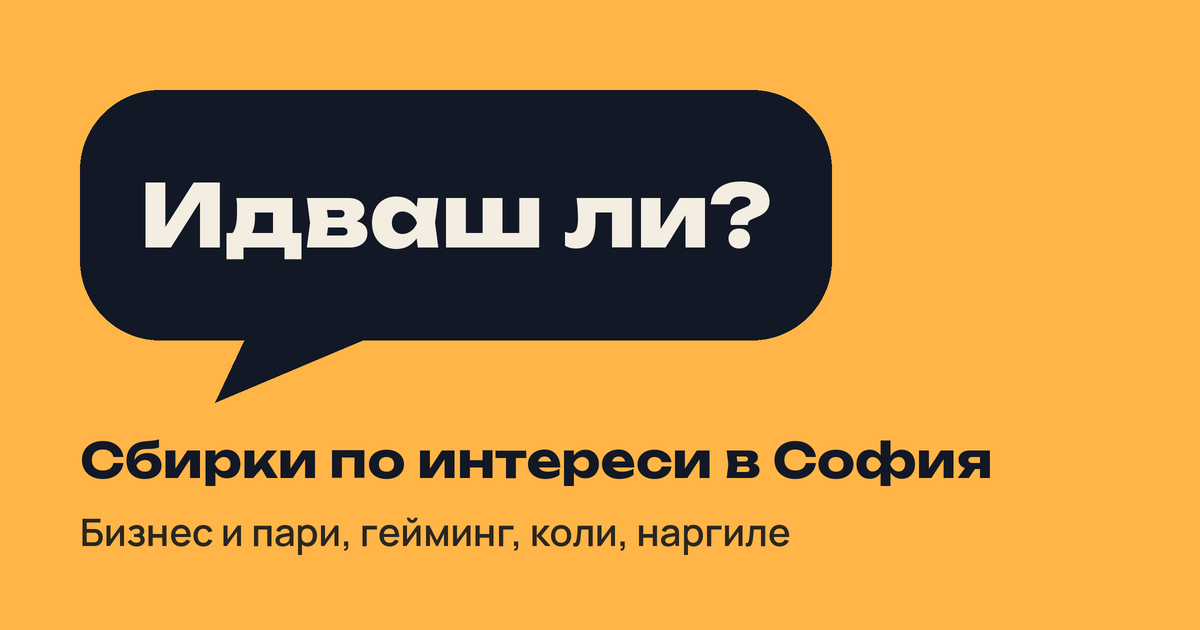
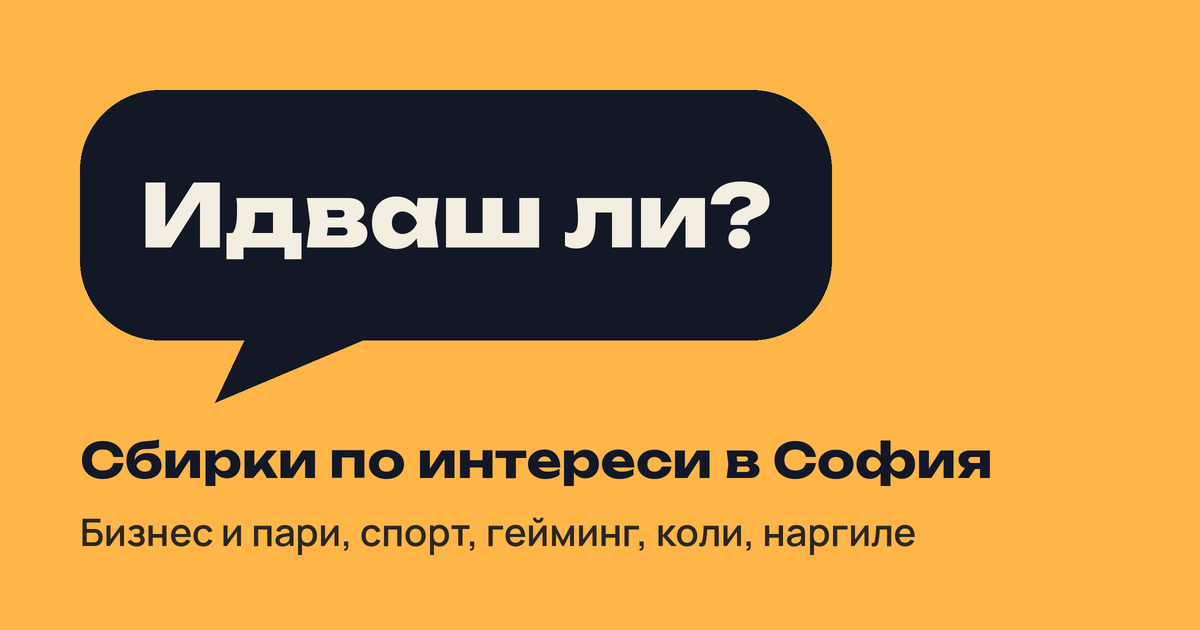
Добавен интерес Спорт с избор на спорт
Claude-Session: https://claude.ai/code/session_01MxxzxaXi9C1XrFEWNoP9iB

Changed region(s): [[0.3083, 0.8143, 0.7708, 0.8746]]

diff --git a/index.html b/index.html
@@ -4,13 +4,13 @@
 <meta charset="utf-8">
 <meta name="viewport" content="width=device-width, initial-scale=1">
 <title>Идваш ли? | Сбирки по интереси в София</title>
-<meta name="description" content="Запиши се и ще ти пишем, когато има сбирка по твоя интерес близо до теб в София. Бизнес и пари, гейминг, коли, наргиле.">
+<meta name="description" content="Запиши се и ще ти пишем, когато има сбирка по твоя интерес близо до теб в София. Бизнес и пари, спорт, гейминг, коли, наргиле.">
 <meta name="theme-color" content="#FFB547">
 <link rel="icon" type="image/png" sizes="32x32" href="/favicon-32.png">
 <link rel="apple-touch-icon" href="/apple-touch-icon.png">
 <meta property="og:type" content="website">
 <meta property="og:title" content="Идваш ли? | Сбирки по интереси в София">
-<meta property="og:description" content="Бизнес и пари, гейминг, коли, наргиле. Запиши се и ще ти пишем, когато има сбирка наблизо.">
+<meta property="og:description" content="Бизнес и пари, спорт, гейминг, коли, наргиле. Запиши се и ще ти пишем, когато има сбирка наблизо.">
 <meta property="og:image" content="https://idvashli.netlify.app/og-image.png">
 <meta property="og:locale" content="bg_BG">
 <meta name="twitter:card" content="summary_large_image">
@@ -248,7 +248,7 @@
 </header>
   <div class="wrap hero">
     <div class="hero-text">
-      <h1>Компания в София за бизнес, гейминг, коли и наргиле</h1>
+      <h1>Компания в София за бизнес, спорт, гейминг, коли и наргиле</h1>
       <p class="lead">Записваш се, избираш какво те вълнува, от трейдинг и маркетинг до PS5 турнири, и ти пишем, когато има сбирка наблизо.</p>
       <a class="btn" href="#zapis">Запиши се</a>
     </div>
@@ -277,6 +277,7 @@
         <h2 id="interesi">С какво започваме</h2>
         <div class="interests">
           <div class="interest"><h3>Бизнес и пари</h3><p>За студенти, които искат да изкарват пари: трейдинг, маркетинг, онлайн бизнес, първи клиенти. Срещаш хора, които вече го правят.</p></div>
+          <div class="interest"><h3>Спорт</h3><p>Футбол, баскетбол, волейбол или фитнес с хора, които търсят отбор или партньор за тренировка.</p></div>
           <div class="interest"><h3>Наргиле и чил</h3><p>Спокойни вечери в наргиле барове, без да се чудиш с кого да излезеш.</p></div>
           <div class="interest"><h3>Коли</h3><p>Срещи с хора, които живеят с колите си. Разговори, проекти, кафе след това.</p></div>
           <div class="interest"><h3>Гейминг</h3><p>Вечери в гейминг клубове с хора, които играят същото като теб.</p></div>
@@ -316,6 +317,7 @@
           <legend>Какво те интересува? <span class="hint">(избери едно или повече)</span></legend>
           <div class="choices">
             <label class="choice"><input type="checkbox" name="interes_biznes" value="да" id="business"><span>Бизнес и пари</span></label>
+            <label class="choice"><input type="checkbox" name="interes_sport" value="да" id="sport"><span>Спорт</span></label>
             <label class="choice"><input type="checkbox" name="interes_nargile" value="да"><span>Наргиле и чил</span></label>
             <label class="choice"><input type="checkbox" name="interes_koli" value="да"><span>Коли</span></label>
             <label class="choice"><input type="checkbox" name="interes_geiming" value="да" id="gaming"><span>Гейминг</span></label>
@@ -332,6 +334,19 @@
             <div class="field">
               <label for="biznes-drugo">Друго</label>
               <input type="text" id="biznes-drugo" name="biznes_drugo" placeholder="напр. крипто, недвижими имоти">
+            </div>
+          </fieldset></div>
+          <div class="games" id="sports" hidden><fieldset>
+            <legend>Какъв спорт? <span class="hint">(маркирай всички)</span></legend>
+            <div class="choices">
+              <label class="choice"><input type="checkbox" name="sport_futbol" value="да"><span>Футбол</span></label>
+              <label class="choice"><input type="checkbox" name="sport_basketbol" value="да"><span>Баскетбол</span></label>
+              <label class="choice"><input type="checkbox" name="sport_voleibol" value="да"><span>Волейбол</span></label>
+              <label class="choice"><input type="checkbox" name="sport_fitnes" value="да"><span>Фитнес</span></label>
+            </div>
+            <div class="field">
+              <label for="sport-drug">Друг спорт</label>
+              <input type="text" id="sport-drug" name="sport_drug" placeholder="напр. падел, бягане">
             </div>
           </fieldset></div>
           <div class="games" id="games" hidden><fieldset>
@@ -418,6 +433,7 @@
   }
   reveal('gaming', 'games');
   reveal('business', 'biz');
+  reveal('sport', 'sports');
 
   form.addEventListener('submit', function (e) {
     e.preventDefault();
@@ -426,7 +442,7 @@
     var el = function (n) { return form.elements.namedItem(n); };
     var name = el('name').value.trim().replace(/\s+/g, ' ');
     var phone = el('phone').value.replace(/[\s\-().]/g, '');
-    var anyInterest = ['interes_biznes', 'interes_nargile', 'interes_koli', 'interes_geiming'].some(function (n) { return el(n).checked; });
+    var anyInterest = ['interes_biznes', 'interes_sport', 'interes_nargile', 'interes_koli', 'interes_geiming'].some(function (n) { return el(n).checked; });
 
     if (name.split(' ').length < 2) { err.textContent = 'Напиши име и фамилия.'; el('name').focus(); return; }
     if (!/^(\+359|0)8[7-9]\d{7}$/.test(phone)) { err.textContent = 'Напиши телефон във формат 0888 123 456.'; el('phone').focus(); return; }
